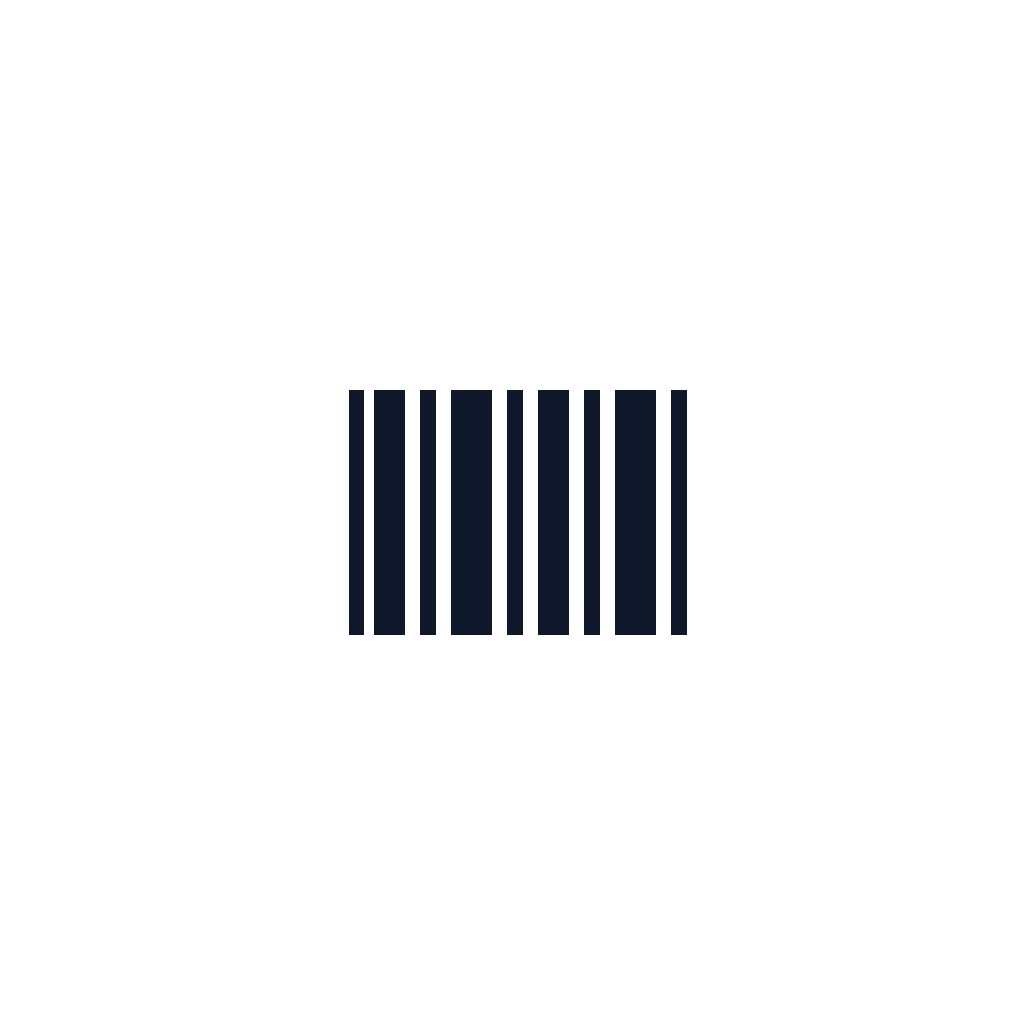
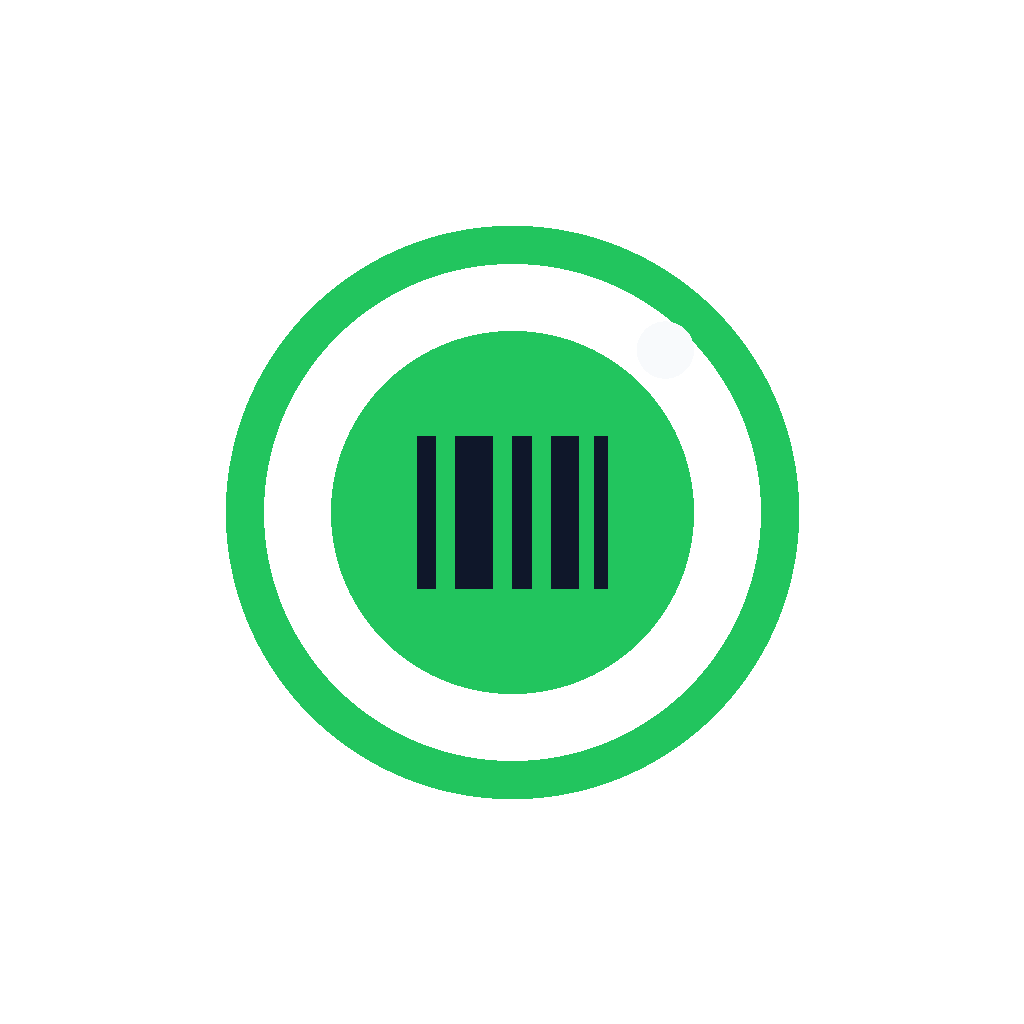
Marca 03 "Lente": ícone do app (1.0.3) e marca no painel
Ícone do app redesenhado com a marca escolhida (anel e miolo verdes com código de barras,
fundo azul-noite). No painel: símbolo no cabeçalho e no login, e ícone da aba (marca.svg),
também na consulta pública.

Changed region(s): [[0.2188, 0.2188, 0.7812, 0.7812]]

diff --git a/public/admin/index.html b/public/admin/index.html
@@ -4,6 +4,7 @@
   <meta charset="utf-8">
   <meta name="viewport" content="width=device-width,initial-scale=1">
   <title>Repositório de Produtos</title>
+  <link rel="icon" href="marca.svg" type="image/svg+xml">
   <link rel="stylesheet" href="style.css">
 </head>
 <body>
@@ -11,6 +12,7 @@
   <section id="login" class="login hidden">
     <div class="login-box">
       <form id="login-form" class="card">
+        <img src="marca.svg" alt="" class="login-logo" width="72" height="72">
         <h1>Repositório de Produtos</h1>
         <p id="login-first" class="muted small hidden">Nenhum usuário cadastrado ainda: entre com o <strong>token de administração</strong>
           e crie os usuários em <strong>Usuários</strong>.</p>
@@ -33,7 +35,7 @@
   <div id="app" class="app hidden">
     <header class="topbar">
       <div class="brand">
-        <strong>Repositório de Produtos</strong>
+        <strong class="brand-name"><img src="marca.svg" alt="" class="brand-logo" width="28" height="28">Repositório de Produtos</strong>
         <nav class="views">
           <a href="#/" data-view="dashboard" data-perm="dashboard">Dashboard</a>
           <a href="#/produtos" data-view="produtos" data-perm="produtos">Produtos</a>

diff --git a/public/admin/style.css b/public/admin/style.css
@@ -515,3 +515,8 @@ code.wrap { word-break: break-all; }
 .app-code { font: 700 26px/1.2 ui-monospace, Consolas, monospace; letter-spacing: 2px; margin: 6px 0 2px; }
 @media (max-width: 560px) { .app-qr { width: 100%; height: auto; aspect-ratio: 1; } }
 .app-dialog a.button { display: inline-block; padding: 8px 14px; border: 1px solid var(--border); border-radius: 8px; text-decoration: none; font-weight: 600; }
+
+/* Marca (03 Lente) */
+.brand-name { display: inline-flex; align-items: center; gap: 8px; }
+.brand-logo { width: 28px; height: 28px; border-radius: 7px; flex: none; }
+.login-logo { display: block; width: 72px; height: 72px; margin: 0 auto 8px; border-radius: 16px; }

diff --git a/app/app.config.js b/app/app.config.js
@@ -26,7 +26,7 @@ module.exports = {
     android: {
       package: 'br.com.catalogo.app',
       versionCode,
-      adaptiveIcon: { foregroundImage: './assets/icone-frente.png', backgroundColor: '#15803d' },
+      adaptiveIcon: { foregroundImage: './assets/icone-frente.png', backgroundColor: '#0f172a' },
       // REQUEST_INSTALL_PACKAGES: abrir o instalador do Android com a versão nova (atualização automática)
       permissions: ['android.permission.CAMERA', 'android.permission.REQUEST_INSTALL_PACKAGES'],
       blockedPermissions: ['android.permission.RECORD_AUDIO'],

diff --git a/public/consulta/index.html b/public/consulta/index.html
@@ -4,6 +4,7 @@
   <meta charset="utf-8">
   <meta name="viewport" content="width=device-width,initial-scale=1">
   <title>Consulta de Produtos</title>
+  <link rel="icon" href="/admin/marca.svg" type="image/svg+xml">
   <link rel="stylesheet" href="/admin/style.css">
   <style>
     body { background: var(--bg); }
